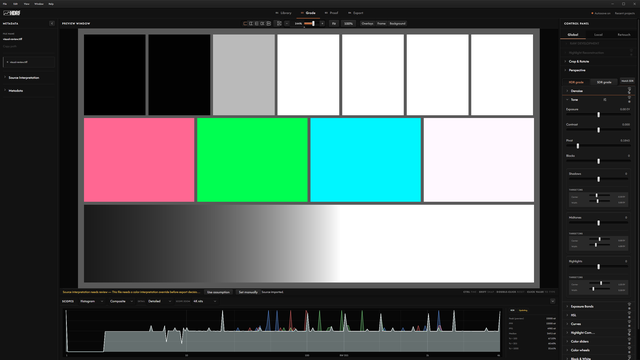
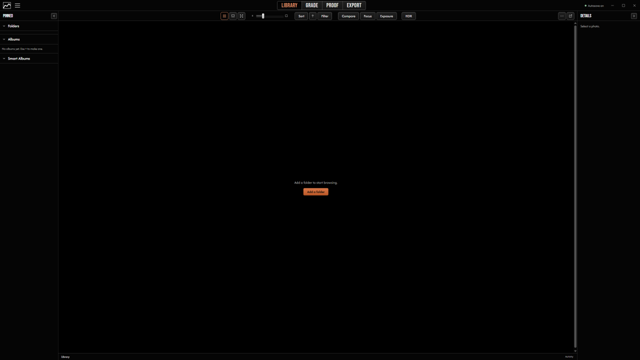
Add black Default Dark theme and improve Settings and menu readability
Preserve the former palette as Modern Dark; keep Light and Studio Gray palettes. Use existing larger Settings type tokens and align solid, 2px-bordered menus beneath the hamburger.

Validation: 903 Node tests passed; focused real-Electron theme/Settings/menu check and plain Library check passed. Python: 3281 passed, 3 skipped; unrelated test_remembered_failure_does_not_hide_current_grade_cached_scene failed (expected 422, received 200). No backend changes or tolerance changes. Output remains 42.7 GB. Visual sign-off pending.

diff --git a/codebase/tests/theme-settings.js b/codebase/tests/theme-settings.js
@@ -1,0 +1,58 @@
+const assert = require('node:assert/strict');
+const fs = require('node:fs'), path = require('node:path');
+const { chromium } = require('playwright');
+const out = path.resolve(__dirname, '../output/review/theme-settings');
+fs.mkdirSync(out, {recursive:true});
+(async () => {
+ const browser = await chromium.launch({headless:true});
+ try {
+  const page = await browser.newPage();
+  await page.goto(process.env.HDR_FINISHER_URL);
+  await page.waitForFunction(() => document.body.dataset.ready === 'true');
+  await page.evaluate(() => document.fonts.ready);
+  const palettes = {};
+  for (const theme of ['default-dark','modern-dark','default-light','studio-gray']) {
+   await page.evaluate(() => HDRApplicationShell.openSettings('appearance'));
+   await page.locator(`[data-theme-option="${theme}"]`).click();
+   await page.waitForFunction(t => document.querySelector('#library-frame').contentDocument.documentElement.dataset.theme === t, theme);
+   palettes[theme] = await page.evaluate(() => {
+    const style = getComputedStyle(document.documentElement);
+    return Object.fromEntries(['--panel','--text','--muted','--border'].map(k => [k,style.getPropertyValue(k).trim()]));
+   });
+   assert.equal(await page.locator('.theme-option').count(),4);
+   await page.locator('#settings-dialog').screenshot({path:path.join(out,theme+'-settings.png')});
+   await page.locator('#settings-close').click();
+  }
+  assert.notEqual(palettes['default-dark']['--panel'],palettes['modern-dark']['--panel']);
+  assert.equal(palettes['modern-dark']['--panel'],'#121212');
+  await page.evaluate(() => HDRApplicationShell.openSettings('appearance'));
+  await page.locator('[data-theme-option="modern-dark"]').click();
+  await page.reload();
+  await page.waitForFunction(() => document.body.dataset.ready === 'true');
+  assert.equal(await page.evaluate(() => document.documentElement.dataset.theme),'modern-dark');
+  for (const tab of ['general','performance','appearance','locations','shortcuts','updates','diagnostics']) {
+   await page.evaluate(t => HDRApplicationShell.openSettings(t),tab);
+   const sizes = await page.locator(`[data-settings-panel="${tab}"]`).evaluate(e => {
+    const visible = el => el.getClientRects().length && getComputedStyle(el).visibility !== 'hidden';
+    return [...e.querySelectorAll('p,label,button,select,input,small,.theme-option-desc')].filter(visible).map(el => ({text:el.textContent.slice(0,35),size:parseFloat(getComputedStyle(el).fontSize)}));
+   });
+   for (const entry of sizes) assert.ok(entry.size >= 14.5, `${tab}: ${JSON.stringify(entry)}`);
+   assert.equal(await page.locator('.settings-nav button').first().evaluate(e => getComputedStyle(e).fontSize),'16px');
+   await page.locator('#settings-dialog').screenshot({path:path.join(out,tab+'.png')});
+  }
+  await page.locator('#settings-close').click();
+  await page.locator('.unified-menu-button').click();
+  const rect = await page.locator('.window-menu-bar').evaluate(e => {
+   const r=e.getBoundingClientRect(), b=document.querySelector('.unified-menu-button').getBoundingClientRect(), s=getComputedStyle(e);
+   return {left:r.left,iconLeft:b.left+4,border:s.borderLeftWidth};
+  });
+  assert.ok(Math.abs(rect.left-rect.iconLeft)<1,JSON.stringify(rect));
+  assert.equal(rect.border,'2px');
+  await page.locator('.window-menu-trigger').first().hover();
+  assert.equal(await page.locator('.window-menu-popover').first().isVisible(),true);
+  assert.equal(await page.locator('.window-menu-popover').first().evaluate(e=>getComputedStyle(e).borderLeftWidth),'2px');
+  await page.screenshot({path:path.join(out,'menu.png'),clip:{x:0,y:0,width:600,height:550}});
+  await page.keyboard.press('Escape');
+  console.log('PASS four themes, Library sync, reload persistence, Settings type and menu alignment/borders');
+ } finally {await browser.close();}
+})().catch(e=>{console.error(e);process.exitCode=1;});

diff --git a/codebase/frontend/visual-tokens.css b/codebase/frontend/visual-tokens.css
@@ -6,7 +6,7 @@
 @font-face { font-family: "IBM Plex Mono"; src: url("./assets/fonts/ibm-plex-mono/IBMPlexMono-Regular.ttf"); font-weight: 400; font-style: normal; font-display: swap; }
 @font-face { font-family: "IBM Plex Mono"; src: url("./assets/fonts/ibm-plex-mono/IBMPlexMono-Medium.ttf"); font-weight: 500; font-style: normal; font-display: swap; }
 /* HDR Finisher — generated from tokens.json */
-:root, [data-theme="default-dark"] {
+:root, [data-theme="modern-dark"] {
   --viewer: #080808;
   --app: #0c0c0c;
   --panel: #121212;
@@ -268,7 +268,7 @@
   --font-mono: "IBM Plex Mono", "Cascadia Mono", Consolas, monospace;
 }
 
-:root, [data-theme="default-dark"] {
+:root, [data-theme="modern-dark"] {
   --plate-up: linear-gradient(180deg, #282828 0%, #1e1e1e 100%);
   --plate-up-hover: linear-gradient(180deg, #2d2d2d 0%, #222222 100%);
   --plate-down: linear-gradient(180deg, #121212 0%, #181818 100%);
@@ -362,4 +362,26 @@
   --panel-collapse-button-icon-size: var(--chevron-size);
   --group-chevron-size: var(--chevron-size); --group-chevron-width: var(--chevron-size);
   --group-chevron-gap: var(--group-disclosure-gap); --group-chevron-color: var(--muted);
+}
+
+/* Default Dark: deep neutral surfaces with clear control and panel boundaries.
+   Modern Dark retains the original palette and materials above. */
+:root:not([data-theme]), [data-theme="default-dark"] {
+  --viewer: #000000;
+  --app: #000000;
+  --panel: #050505;
+  --raised: #141414;
+  --input: #080808;
+  --deep: #000000;
+  --hairline: rgba(255, 255, 255, 0.18);
+  --border: #505050;
+  --tooltip: #141414;
+  --text: #ffffff;
+  --body: #e3e3e3;
+  --muted: #b8b8b8;
+  --quiet: #888888;
+  --plate-up: linear-gradient(180deg, #202020 0%, #141414 100%);
+  --plate-up-hover: linear-gradient(180deg, #303030 0%, #222222 100%);
+  --plate-down: linear-gradient(180deg, #000000 0%, #080808 100%);
+  --plate-edge: #626262;
 }

diff --git a/codebase/frontend/visual-controls.css b/codebase/frontend/visual-controls.css
@@ -537,3 +537,17 @@ html.desktop-shell .unified-menu-button:is(:hover, :focus-visible, [aria-expande
 :root .grade-folder-tabs { padding: var(--tab-plate-inset); gap: 0; }
 :root :is(#grade-workflow-panel .grade-header > .control-mode-switch, .grade-folder-tabs > .lane-switch) > button { height: 30px; min-height: 30px; }
 :root .lane-switch button:is(:hover, :focus-visible) .lane-title-tooltip { transition-delay: 600ms; }
+
+/* Settings uses the existing larger type steps throughout, including controls. */
+:root .settings-dialog { font-size: var(--font-size-lg); }
+:root .settings-dialog :is(button, input, select, textarea, label, .theme-option-name, .accent-option) { font-size: var(--font-size-lg); }
+:root .settings-dialog :is(.helper, .caption, small, .theme-option-desc, .shortcut-hardware-note span, .shortcut-list-header) { font-size: var(--font-size-md); }
+:root .settings-dialog :is(h2, h3) { font-size: var(--font-size-2xl); }
+:root .settings-dialog .shortcut-toolbar { grid-template-columns: minmax(160px, 1fr) 160px auto auto; }
+
+/* Anchor the menu beneath its glyph, independent of the product logo. */
+html.desktop-shell .unified-menu-anchor { position: relative; display: flex; align-items: center; }
+html.desktop-shell .window-menu-bar { left: 4px; }
+html.desktop-shell :is(.window-menu-bar, .window-menu-popover, .window-submenu-popover) {
+ border: 2px solid var(--muted); background: var(--raised); box-shadow: var(--popover-shadow);
+}

diff --git a/codebase/frontend/photo-library.js b/codebase/frontend/photo-library.js
@@ -22,7 +22,7 @@
   const standalone = parent === window, libraryDesktop = standalone ? window.hdrFinisherDesktop : null;
   const navigation = HDRLibraryNavigation.create({ root: document.querySelector(".library-nav"), refresh: () => refreshPins() });
   const applyDevelopedBadge = value => { document.documentElement.dataset.developedBadge = value === "always" ? "always" : "hover"; };
-  const applyTheme = theme => { document.documentElement.dataset.theme = ["default-dark", "default-light", "studio-gray"].includes(theme) ? theme : "default-dark"; };
+  const applyTheme = theme => { document.documentElement.dataset.theme = ["default-dark", "modern-dark", "default-light", "studio-gray"].includes(theme) ? theme : "default-dark"; };
   try { applyTheme(libraryDesktop?.startupTheme || JSON.parse(localStorage.getItem("hdr-finisher:application-preferences:v1") || "{}").theme); } catch {}
   if (!standalone) { applyTheme(parent.document.documentElement.dataset.theme); applyDevelopedBadge(parent.document.documentElement.dataset.developedBadge); }
   try { if (!libraryDesktop && standalone) applyDevelopedBadge(JSON.parse(localStorage.getItem("hdr-finisher:application-preferences:v1") || "{}").developedBadge); } catch {}

diff --git a/codebase/tests/library-appearance-navigation.js b/codebase/tests/library-appearance-navigation.js
@@ -49,7 +49,7 @@ for(let i=0;i<6;i++) fs.copyFileSync(path.join(root,'tests/fixtures/library_phot
   await lib.evaluate(folder=>HDRLibrary.browse(folder),folder); await lib.waitForSelector('#grid-space canvas[data-picture-key]'); await lib.locator('.library-cell').first().click();
   assert.deepEqual((await lib.locator('#details .library-kicker').allTextContents()).slice(0,2),['File','Marks']);
   assert.equal(await lib.locator('#details .library-file-name').count(),1);
-  for(const theme of ['default-dark','default-light','studio-gray']) {
+  for(const theme of ['default-dark','modern-dark','default-light','studio-gray']) {
    await page.evaluate(t=>document.documentElement.dataset.theme=t,theme); await lib.waitForFunction(t=>document.documentElement.dataset.theme===t,theme);
    console.log(theme,await lib.evaluate(()=>({panel:getComputedStyle(document.documentElement).getPropertyValue('--panel').trim(),scrollbar:getComputedStyle(document.querySelector('#library-grid')).scrollbarColor})));
    await page.screenshot({path:path.join(out,theme+'.png')});

diff --git a/codebase/desktop/lib/application-preferences.js b/codebase/desktop/lib/application-preferences.js
@@ -47,7 +47,7 @@ function sanitizeApplicationPreferences(value = {}) {
       return {preset:"burnt-orange", color:presets["burnt-orange"]};
     })(),
     schemaVersion: 3,
-    theme: ["default-dark", "default-light", "studio-gray"].includes(value.theme) ? value.theme : "default-dark",
+    theme: ["default-dark", "modern-dark", "default-light", "studio-gray"].includes(value.theme) ? value.theme : "default-dark",
     defaultReferenceWhiteNits: Number(value.defaultReferenceWhiteNits) === 100 ? 100 : 203,
     renderingMode: ["auto", "gpu", "cpu"].includes(value.renderingMode) ? value.renderingMode : "auto",
     previewResolution: tiers.includes(String(value.previewResolution)) ? String(value.previewResolution) : "auto",

diff --git a/codebase/frontend/theme-startup.js b/codebase/frontend/theme-startup.js
@@ -6,6 +6,6 @@
     if (parent !== window) { theme = parent.document.documentElement.dataset.theme; accent = JSON.parse(parent.document.documentElement.dataset.accent || "null"); }
     else { const saved = JSON.parse(localStorage.getItem("hdr-finisher:application-preferences:v1") || "{}"); theme ||= saved.theme; accent ||= saved.accent; }
   } catch {}
-  if (["default-dark", "default-light", "studio-gray"].includes(theme)) document.documentElement.dataset.theme = theme;
+  if (["default-dark", "modern-dark", "default-light", "studio-gray"].includes(theme)) document.documentElement.dataset.theme = theme;
   window.HDRAppearance?.apply(accent);
 })();

diff --git a/codebase/frontend/desktop-chrome.js b/codebase/frontend/desktop-chrome.js
@@ -35,9 +35,12 @@
   menuButton.setAttribute("aria-expanded", "false");
   menuButton.setAttribute("aria-controls", "unified-menus");
   menuButton.hidden = usesNativeApplicationMenu;
-  lockup.append(menuButton);
+  const menuAnchor = document.createElement("div");
+  menuAnchor.className = "unified-menu-anchor";
+  lockup.append(menuAnchor);
+  menuAnchor.append(menuButton);
   menuBar.id = "unified-menus";
-  lockup.append(menuBar);
+  menuAnchor.append(menuBar);
   menuBar.hidden = true;
   bar.querySelector(".top-actions").append(document.querySelector(".window-controls"));
   document.getElementById("project-recents").hidden = true;

diff --git a/codebase/desktop/main.js b/codebase/desktop/main.js
@@ -1098,7 +1098,7 @@ async function createWindow(role = "main") {
     ...windowChromeOptions(),
     // Library uses native chrome, including Windows snap.
     ...(isMain ? {} : { frame: true }),
-    backgroundColor: ({ "default-light": "#ededed", "studio-gray": "#2e2e2e" })[applicationPreferences.theme] || "#0c0c0c",
+    backgroundColor: ({ "default-light": "#ededed", "studio-gray": "#2e2e2e", "modern-dark": "#0c0c0c" })[applicationPreferences.theme] || "#000000",
     icon: path.join(__dirname, "assets", "icon.png"),
     title: isMain ? "HDR Finisher" : "HDR Finisher — Library",
     webPreferences: {

diff --git a/codebase/frontend/application-shell.js b/codebase/frontend/application-shell.js
@@ -60,8 +60,14 @@
     {
       id: "default-dark",
       name: "Default Dark",
-      description: "Neutral near-black surround. The reference default for critical grading work.",
+      description: "Deep black surround with crisp text, distinct controls and clear panel edges.",
       preview: "/static/assets/theme-previews/default-dark.png",
+    },
+    {
+      id: "modern-dark",
+      name: "Modern Dark",
+      description: "The original soft near-black theme with subtle surface separation.",
+      preview: "/static/assets/theme-previews/modern-dark.png",
     },
     {
       id: "default-light",

diff --git a/codebase/tests/appearance.test.js b/codebase/tests/appearance.test.js
@@ -38,3 +38,9 @@ test("theme redraw waits for editor state and elements, then redraws loaded grap
  vm.runInContext('const els={};',context);
  changed();assert.equal(draws,1);
 });
+
+test("all four themes survive saved preference sanitization",()=>{
+ for(const theme of ["default-dark","modern-dark","default-light","studio-gray"])
+  assert.equal(sanitizeApplicationPreferences({theme}).theme,theme);
+ assert.equal(sanitizeApplicationPreferences({theme:"unknown"}).theme,"default-dark");
+});

diff --git a/codebase/tools/generate-theme-previews.js b/codebase/tools/generate-theme-previews.js
@@ -4,7 +4,7 @@ const { chromium } = require("playwright");
 const path = require("path");
 
 const STORAGE_KEY = "hdr-finisher:application-preferences:v1";
-const THEMES = ["default-dark", "default-light", "studio-gray"];
+const THEMES = ["default-dark", "modern-dark", "default-light", "studio-gray"];
 const outputDir = path.join(__dirname, "..", "frontend", "assets", "theme-previews");
 
 async function main() {
